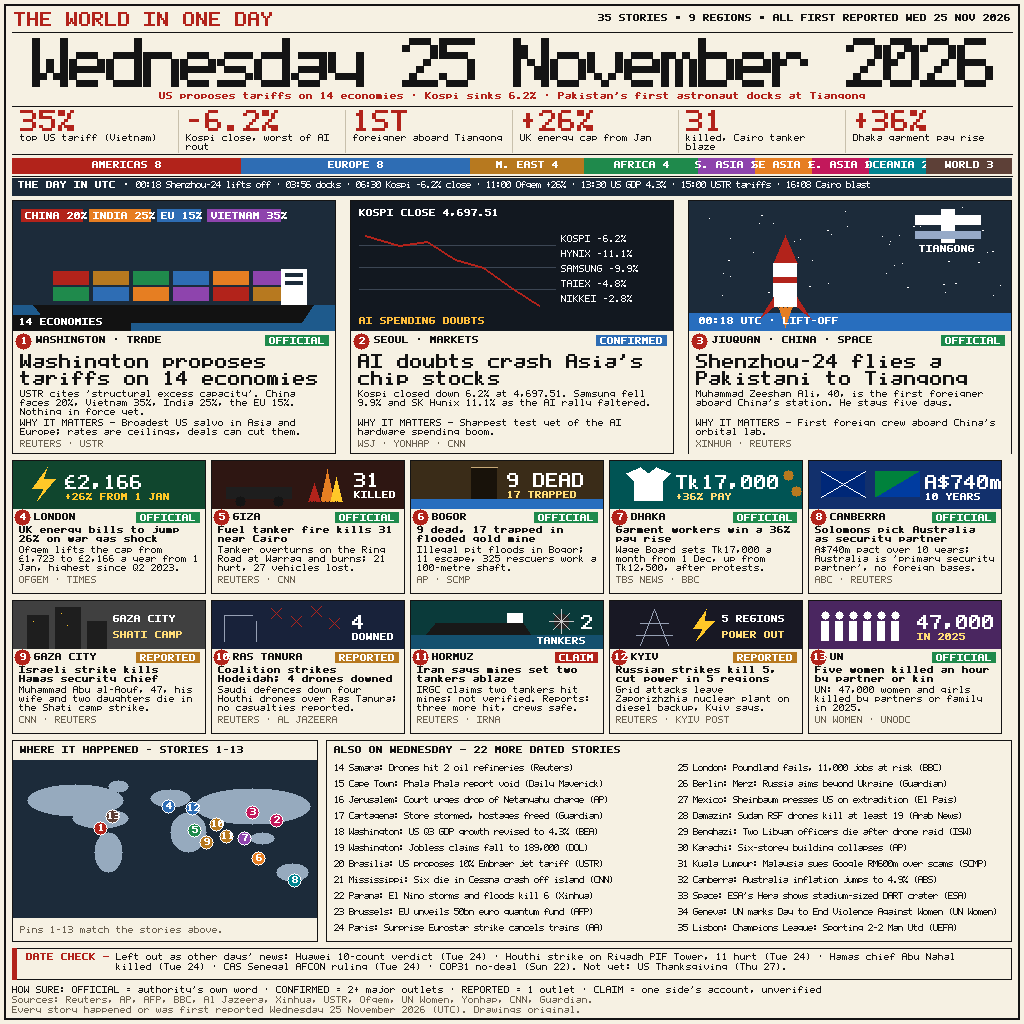
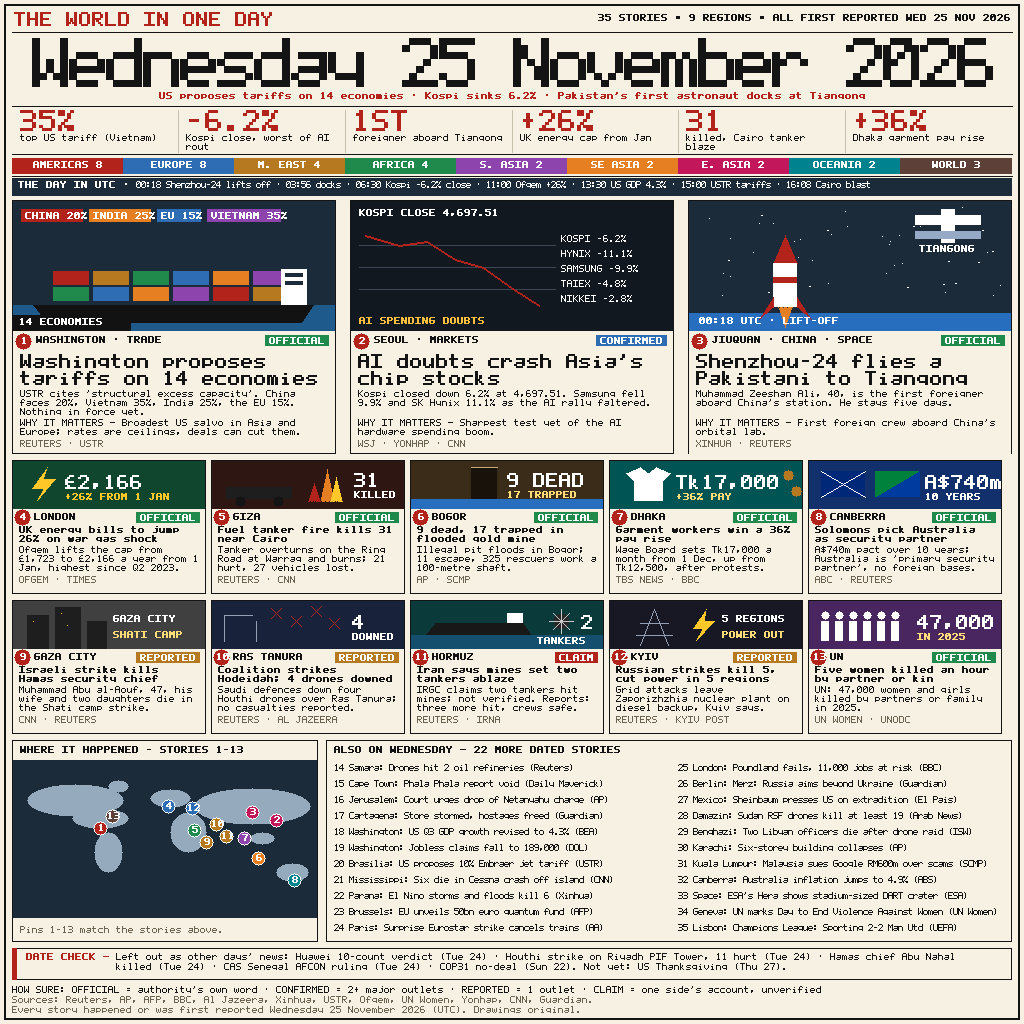
news-image-20261125 v2.1: equal-width region strip segments (labels fit)

Changed region(s): [[0.0938, 0.1562, 0.9375, 0.1875], [0.0312, 0.1562, 0.0625, 0.1875]]

diff --git a/main.ts b/main.ts
@@ -626,12 +626,14 @@ function main(): void {
     ["AFRICA 4", 4, GREEN], ["S. ASIA 2", 2, PURPLE], ["SE ASIA 2", 2, ORANGE],
     ["E. ASIA 2", 2, PINK], ["OCEANIA 2", 2, TEAL], ["WORLD 3", 3, BROWN],
   ];
+  const segW = Math.floor(1000 / regions.length); // equal width: every label + count fits
   let rx = 12;
-  for (const [label, n, col] of regions) {
-    const segW = Math.round((n / 35) * 1000);
-    rect(rx, 158, segW, 16, col);
-    drawTextC(rx + Math.floor(segW / 2), 161, label, 1, WHITE, true);
-    rx += segW;
+  for (let i = 0; i < regions.length; i++) {
+    const [label, , col] = regions[i];
+    const w = i === regions.length - 1 ? 1012 - rx : segW;
+    rect(rx, 158, w, 16, col);
+    drawTextC(rx + Math.floor(w / 2), 161, label, 1, WHITE, true);
+    rx += w;
   }
   line(12, 176, 1012, 176, INK);
 
